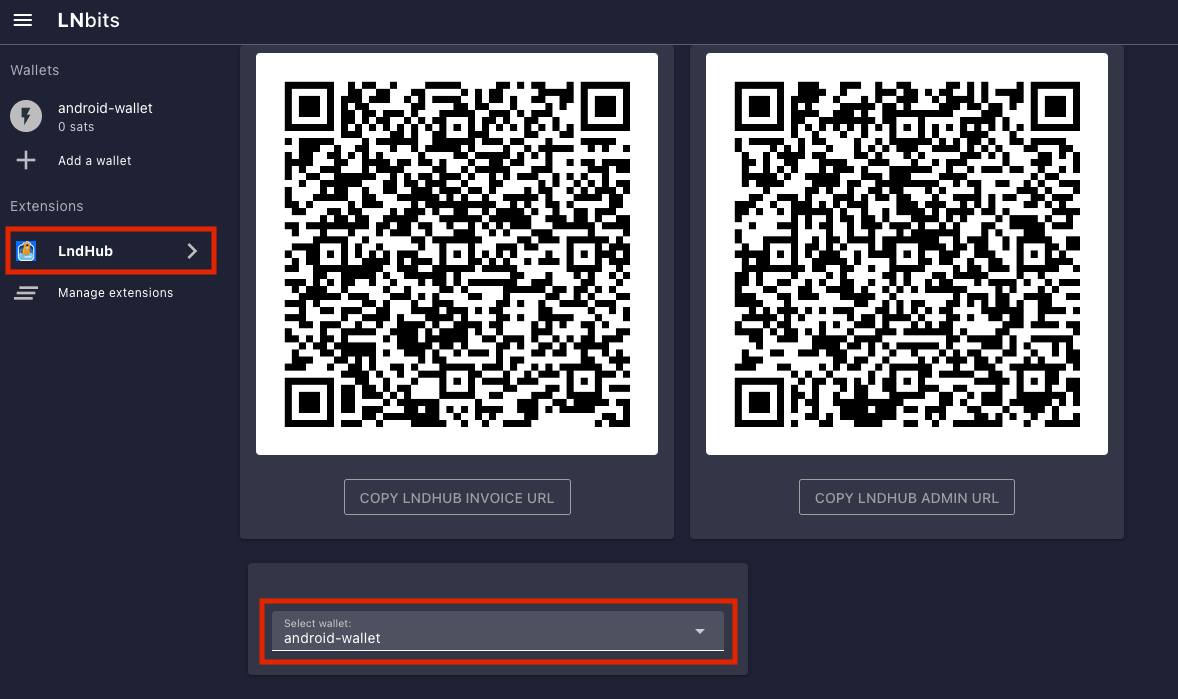
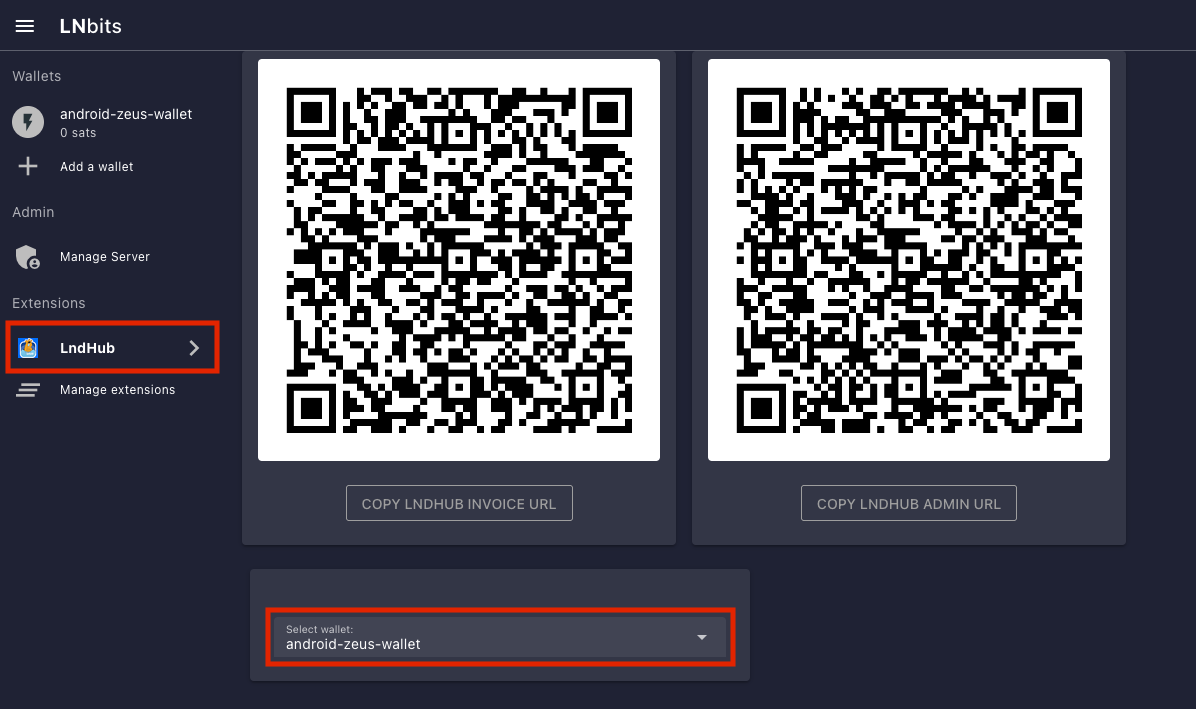
almost finished

diff --git a/site/source/user-manual/service-guides/lightning/lightning-integrations.rst b/site/source/user-manual/service-guides/lightning/lightning-integrations.rst
@@ -209,11 +209,11 @@ Using LnBits allows you to create a wallet that makes use of your node with only
       :width: 60%
       :alt: local-to-onion
 
-#. You'll be asked to name your LNbits wallet.
+#. Now a default wallet will be generated - highlighted on the top left. We'll rename it by clicking **Rename wallet** entering **android-zeus-wallet** then clicking **UPDATE NAME**
 
-   .. figure:: /_static/images/services/lnbits/lnbits-name-wallet.png
-      :width: 40%
-      :alt: lnbits-name-wallet
+   .. figure:: /_static/images/services/lnbits/rename-default-wallet.png
+      :width: 60%
+      :alt: rename-default-wallet
 
 #. Click **Manage extensions**
 
@@ -233,7 +233,60 @@ Using LnBits allows you to create a wallet that makes use of your node with only
       :width: 40%
       :alt: lndhub-select-wallet
 
-#. Now install `Zeus <https://zeusln.app/>`_ on your phone.
+#. Now install `Zeus <https://zeusln.app/>`_ on your phone and open it up.
 
-#. Open it up and click **SCAN NODE CONFIG**
+   .. Note:: You need to have :ref:`Tor running on your phone<tor-os>` for this to work. For Android you will also need to turn on VPN mode and add Zeus as an app to it.
 
+#. Click **SCAN NODE CONFIG**.
+
+   .. figure:: /_static/images/services/lnbits/scan-node-config.jpg
+      :width: 25%
+      :alt: scan-node-config
+
+#. *If you only want this wallet to be able to RECEIVE PAYMENTS, scan this QR code:*
+
+   .. figure:: /_static/images/services/lnbits/left-qr.png
+      :width: 40%
+      :alt: left-qr
+
+   *If you are happy for this wallet to be able to both receive and MAKE payments scan this QR code:*
+
+   .. figure:: /_static/images/services/lnbits/right-qr.png
+      :width: 40%
+      :alt: right-qr
+
+#. Once scanned, name the wallet if you wish - then disable **Use Tor** and disable **Certificate verification** then hit **SAVE NODE CONFIG**.
+
+   .. note:: Certificate verification is not necessary when using Tor
+
+   .. figure:: /_static/images/services/lnbits/save-node-config.png
+      :width: 25%
+      :alt: save-node-config
+
+#. Hit **I UNDERSTAND, SAVE NODE CONFIG**
+
+   .. figure:: /_static/images/services/lnbits/i-understand-save.png
+      :width: 25%
+      :alt: understand-save
+
+#. Zeus will now connect to your node and have a balance of zero satoshis.
+
+   .. figure:: /_static/images/services/lnbits/zero-sats.png
+      :width: 25%
+      :alt: zero-sats
+
+   .. tip:: If it doesn't work, please manually restart the Zeus app.
+
+#. You can now add sats to this wallet in two ways. You can allocate sats within LNbits by clicking the **+** icon here:
+
+   .. figure:: /_static/images/services/lnbits/local-to-onion.png
+      :width: 60%
+      :alt: local-to-onion
+   
+   .. tip:: You can also *subtract* sats from this account by clicking the **+** and entering a negative value here.
+
+   Or you can simply hit **Request** in Zeus:
+
+   .. figure:: /_static/images/services/lnbits/local-to-onion.png
+      :width: 60%
+      :alt: local-to-onion
